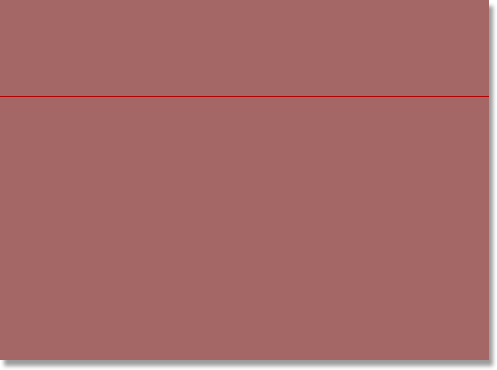
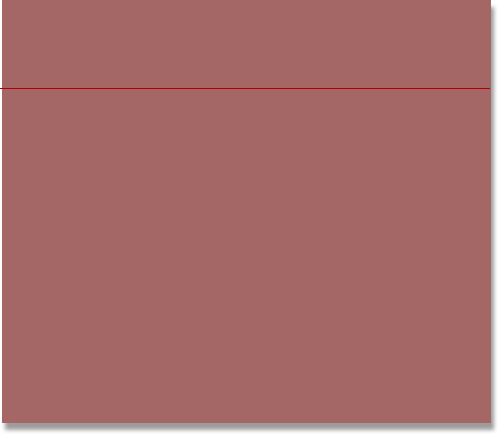
itens adicionados
botão e página de confirmação

diff --git a/assets/public/css/home/style.css b/assets/public/css/home/style.css
@@ -24,13 +24,13 @@ body {padding:0px; margin:0px;}
 
 .box_fora {position:relative; width:800px;padding-top:200px;}
 
-.box{margin:auto; width:497px;height:370px; padding:15px 0px 0px 0px; background:url(../../images/home/box-email.png) no-repeat; }
+.box{margin:auto; width:497px;height:434px; padding:15px 0px 0px 0px; background:url(../../images/home/box-email.png) no-repeat; }
 .box_conteudo {width:400px; margin-left:10px; text-align:justify}
-.titulo { font-family:'gotham_boldregular'; font-weight:bold; font-size:20px; color:#fff;}
+.titulo { font-family:'gotham_boldregular'; font-weight:bold; font-size:21px; color:#fff;}
 .descricao {font-family:Tahoma; color:#fff;  font-size:14px; padding-top:35px; }
 
 .input { background:url(../../images/home/input.png) no-repeat;border:0px; width:346px; height:57px; font-size:18px; color:#CACAD8; font-family: Tahoma; padding-left:20px; margin-left:40px}
-.botao_ver_video { width:346px; height:92px;margin-left:50px;}
+.botao_ver_video { width:268px; height:70px;margin-left:30px;}
 
 .descricao_footer { font-family:Verdana;  font-size:9px; }
 .footer_fundo{z-index:1;background:url(../../images/home/fundo_rodape.png) no-repeat;width:1489px;height:1000px; position:absolute;bottom:-90%;right:-400px}

diff --git a/application/logs/log-2013-09-02.php b/application/logs/log-2013-09-02.php
@@ -78,3 +78,16 @@ ERROR - 2013-09-02 16:18:31 --> 404 Page Not Found --> assets
 ERROR - 2013-09-02 16:56:35 --> 404 Page Not Found --> assets
 ERROR - 2013-09-02 17:06:09 --> Severity: Notice  --> Undefined variable: page C:\xampp\htdocs\hangout8psgit\application\views\home.php 67
 ERROR - 2013-09-02 17:06:09 --> 404 Page Not Found --> assets
+ERROR - 2013-09-02 17:13:19 --> 404 Page Not Found --> ver
+ERROR - 2013-09-02 17:41:09 --> Severity: Notice  --> Undefined variable: page C:\xampp\htdocs\hangout8psgit\application\views\home.php 67
+ERROR - 2013-09-02 17:41:11 --> 404 Page Not Found --> assets
+ERROR - 2013-09-02 17:41:35 --> Severity: Notice  --> Undefined variable: page C:\xampp\htdocs\hangout8psgit\application\views\home.php 67
+ERROR - 2013-09-02 17:41:35 --> 404 Page Not Found --> assets
+ERROR - 2013-09-02 17:42:14 --> Severity: Notice  --> Undefined variable: page C:\xampp\htdocs\hangout8psgit\application\views\home.php 67
+ERROR - 2013-09-02 17:42:15 --> 404 Page Not Found --> assets
+ERROR - 2013-09-02 17:42:50 --> Severity: Notice  --> Undefined variable: page C:\xampp\htdocs\hangout8psgit\application\views\home.php 67
+ERROR - 2013-09-02 17:42:50 --> 404 Page Not Found --> assets
+ERROR - 2013-09-02 17:43:01 --> Severity: Notice  --> Undefined variable: page C:\xampp\htdocs\hangout8psgit\application\views\home.php 67
+ERROR - 2013-09-02 17:43:02 --> 404 Page Not Found --> assets
+ERROR - 2013-09-02 17:44:11 --> Severity: Notice  --> Undefined variable: page C:\xampp\htdocs\hangout8psgit\application\views\home.php 67
+ERROR - 2013-09-02 17:44:12 --> 404 Page Not Found --> assets

diff --git a/application/views/home.php b/application/views/home.php
@@ -129,10 +129,10 @@
 					
 
 					<div class="box_conteudo">
-						<h1 class="titulo">COMO GERAR 1.000 POTENCIAIS CLIENTES COM APENAS R$ 499,00?</h1>
+						<h1 class="titulo">COMO GERAR 1.000 POTENCIAIS CLIENTES COM APENAS R$ 490?</h1>
 						<div class="descricao">
 							
-							Conrado Adolpho, uma das maiores autoridades do Marketing no Brasil, ensinará para você duas técnicas poderosas que irão fazer você gerar 1.000 novos contatos com apenas R$ 499,00. Não perca este Hangout que fará você faturar mais com muito menos!
+							Conrado Adolpho, uma das maiores autoridades do Marketing no Brasil, ensinará para você duas técnicas poderosas que irão fazer você gerar 1.000 novos contatos com apenas R$ 490. Não perca este Hangout que fará você faturar mais com muito menos!
 						</div>
 						
 					</div>
@@ -143,7 +143,7 @@
 					
 					<div style="height:26px"></div>
 					
-					<!--<div style="cursor:pointer;padding-left: 0px"><img class="botao_ver_video" src="<?php echo base_url();?>assets/public/images/home/botao-veja-video.png" onclick="return verificacao();" /></div>-->
+					<div style="cursor:pointer;padding-left: 0px"><img class="botao_ver_video" src="<?php echo base_url();?>assets/public/images/home/botao-veja-video.png" onclick="return verificacao();" /></div>
 					
 					<div style="height:26px"></div>
 					

diff --git a/application/controllers/ver.php b/application/controllers/ver.php
@@ -1,0 +1,29 @@
+<?php if ( ! defined('BASEPATH')) exit('No direct script access allowed');
+
+class Ver extends CI_Controller {
+
+	/**
+	 * Index Page for this controller.
+	 *
+	 * Maps to the following URL
+	 * 		http://example.com/index.php/welcome
+	 *	- or -  
+	 * 		http://example.com/index.php/welcome/index
+	 *	- or -
+	 * Since this controller is set as the default controller in 
+	 * config/routes.php, it's displayed at http://example.com/
+	 *
+	 * So any other public methods not prefixed with an underscore will
+	 * map to /index.php/welcome/<method_name>
+	 * @see http://codeigniter.com/user_guide/general/urls.html
+	 */
+	public function index()
+	
+	{
+		//asdad 
+		redirect(base_url().'obrigado');
+	}
+}
+
+/* End of file welcome.php */
+/* Location: ./application/controllers/welcome.php */
